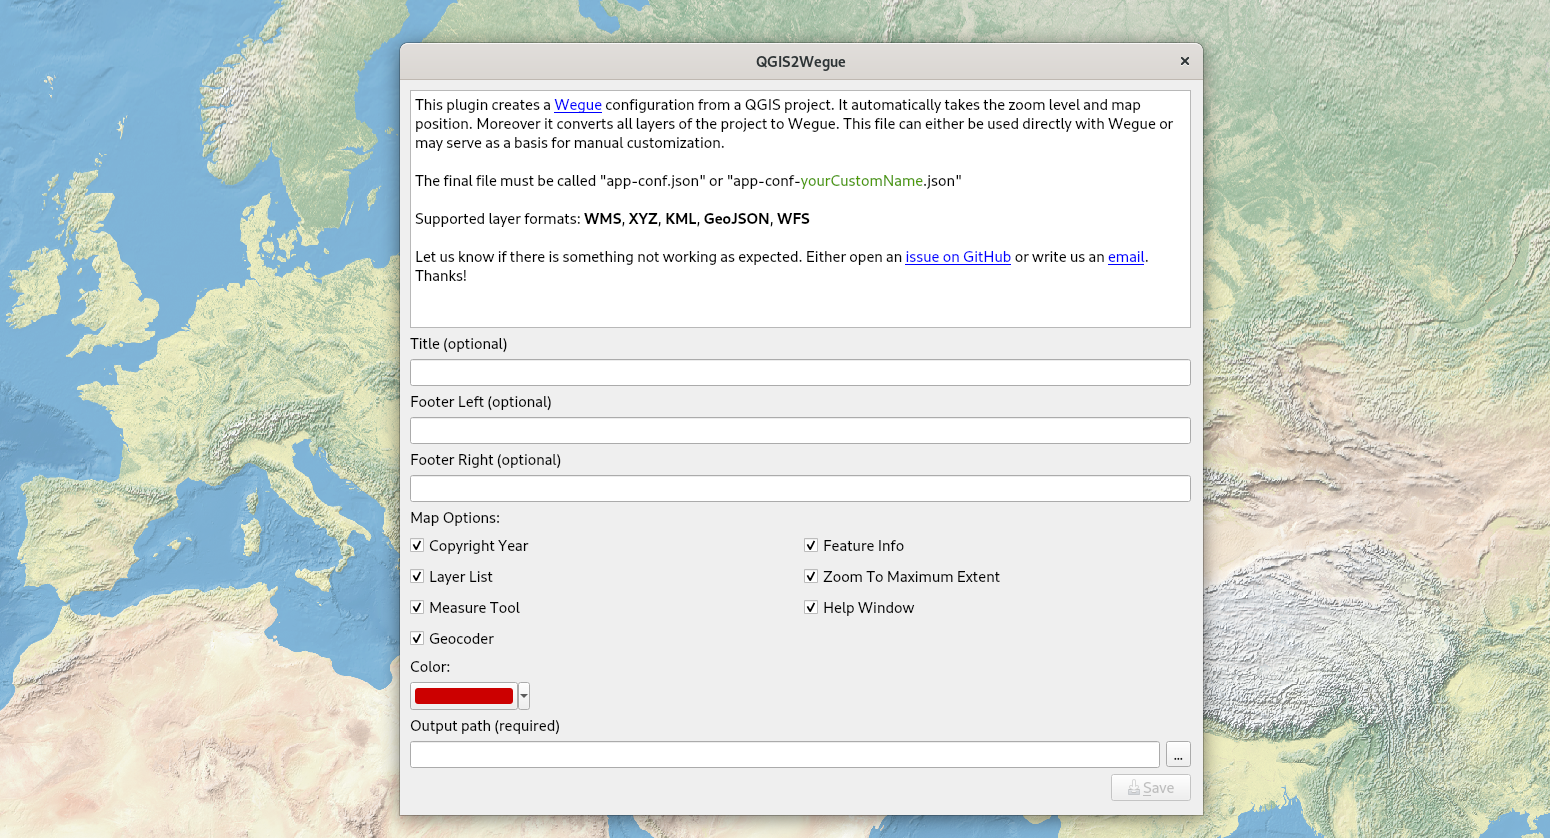
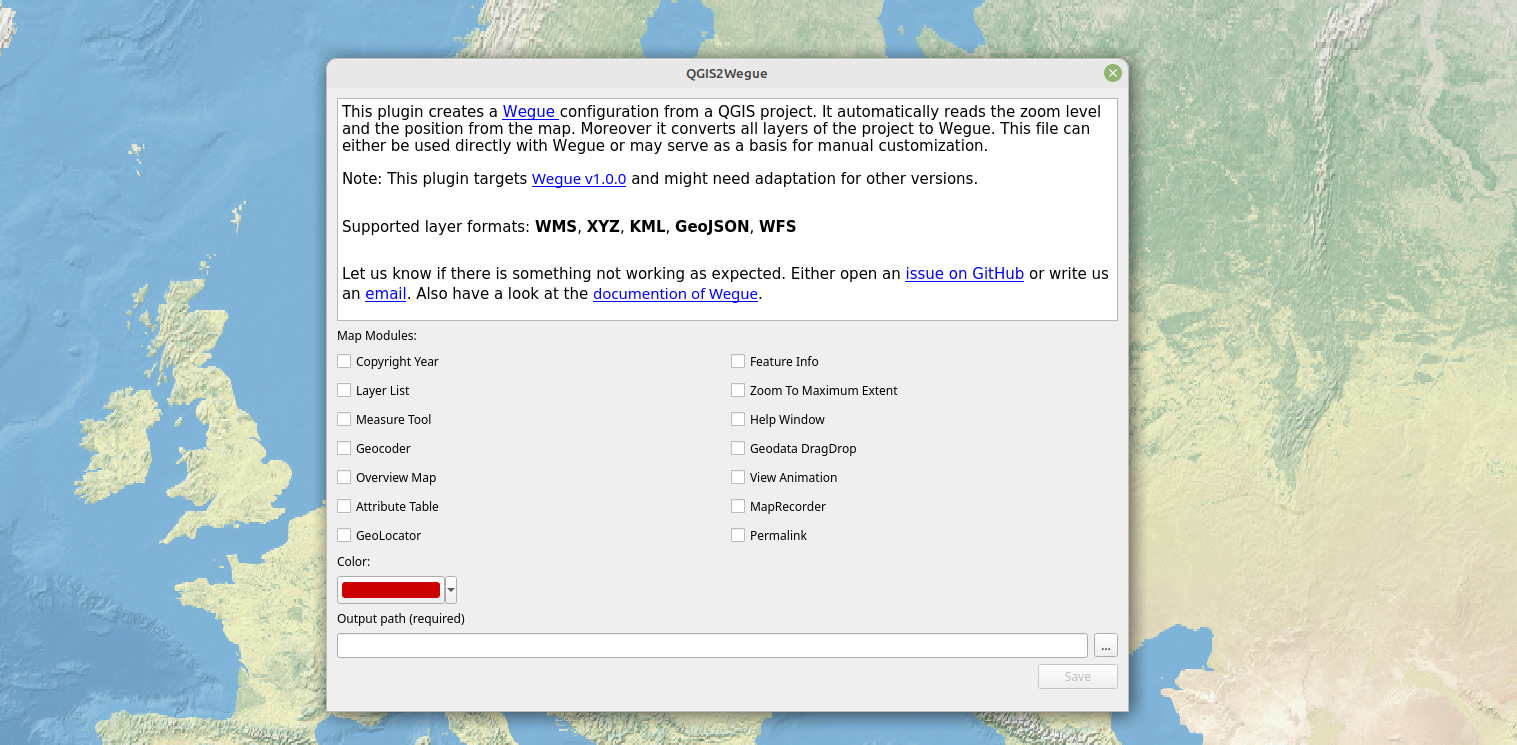
Update plugin to Wegue `v1.0.0` (#33)
- adapt the color value to the new position within the config file
- add more map modules: Attribute Table, Overview Map, Map Recorder
- **deprecate** options to add text, because these option have moved to the "locale" file 
- adapt UI and help text
- some typos
- minor Update of README

diff --git a/qgis2wegue.py b/qgis2wegue.py
@@ -14,7 +14,9 @@ from .wegueConf import WegueConfiguration
 
 from .wegue_util import (center2webmercator,
                          scale2zoom,
-                         extract_wegue_layer_config)
+                         extract_wegue_layer_config,
+                         rgb2hex
+                         )
 
 
 class qgis2wegue:
@@ -136,12 +138,8 @@ class qgis2wegue:
 
         dir_exists = os.path.exists(base_dir)
 
-        # wegue config files must match this pattern
-        file_is_valid = (
-            file == 'app-conf.json') | (file.startswith('app-conf-') & file.endswith('.json'))
-
         enabled = False
-        if (file != "") & dir_exists & file_is_valid:
+        if (file != "") & dir_exists & file.endswith('.json'):
             # output path valid
             enabled = True
 
@@ -149,7 +147,7 @@ class qgis2wegue:
 
     def store_wegue_conf_to_file(self):
         """
-        Collects all paramters from QGIS and the plugin form
+        Collects all parameters from QGIS and the plugin form
         and creates the Wegue configuration
         """
 
@@ -176,12 +174,6 @@ class qgis2wegue:
             if result_layer:
                 self.wegue_conf.mapLayers.append(result_layer)
 
-        # optional properties
-        self.wegue_conf.title = self.dlg.q2w_title_widget.text()
-        self.wegue_conf.footerTextLeft = self.dlg.q2w_footer_left_widget.text()
-        self.wegue_conf.footerTextRight = \
-            self.dlg.q2w_footer_right_widget.text()
-
         # add checkbox properties
         self.wegue_conf.showCopyrightYear = \
             self.dlg.q2w_copyright_year.isChecked()
@@ -203,21 +195,38 @@ class qgis2wegue:
 
         if self.dlg.q2w_geocoder.isChecked():
             self.wegue_conf.add_geocoder()
-        
+
         if self.dlg.q2w_geodata_drag_drop.isChecked():
             self.wegue_conf.add_map_geodata_drag_drop()
-        
+
         if self.dlg.q2w_permalink.isChecked():
             self.wegue_conf.add_permalink()
-        
+
         if self.dlg.q2w_geolocator.isChecked():
             self.wegue_conf.add_geolocator()
 
+        if self.dlg.q2w_overview_map.isChecked():
+            self.wegue_conf.add_overview_map()
+
+        if self.dlg.q2w_view_animation.isChecked():
+            self.wegue_conf.add_view_animation()
+
+        if self.dlg.q2w_map_recorder.isChecked():
+            self.wegue_conf.add_maprecorder()
+
+        if self.dlg.q2w_attribute_table.isChecked():
+            self.wegue_conf.add_attribute_table()
+
         # color
-        color_rgb = self.dlg.q2w_color_widget.color().getRgb()
-        # drop alpha value
-        color_rgb = color_rgb[0:3]
-        self.wegue_conf.baseColor = "rgb" + str(color_rgb)
+        qt_color = self.dlg.q2w_color_widget.color()
+        hex_color = rgb2hex(qt_color.red(), qt_color.green(), qt_color.blue())
+        self.wegue_conf.colorTheme = {
+            "themes": {
+                "light": {
+                    "primary": hex_color
+                }
+            }
+        }
 
         # path for config
         user_input = self.dlg.q2w_file_widget.filePath()

diff --git a/wegueConf.py b/wegueConf.py
@@ -5,12 +5,15 @@ class WegueConfiguration:
     """Contains parameters of a Wegue configuration"""
 
     def __init__(self):
-        self.title = "Vue.js / OpenLayers WebGIS"
-        self.baseColor = "green darken-3"
+        self.colorTheme = {
+            "themes": {
+                "light": {
+                    "primary": "#fdbf6f"
+                }
+            }
+        }
         self.logo = "https://dummyimage.com/100x100/aaa/fff&text=Wegue"
         self.logoSize = 100
-        self.footerTextLeft = "Powered by <a href='https://meggsimum.de/wegue/' target='_blank'>Wegue WebGIS</a>"
-        self.footerTextRight = "meggsimum"
         self.showCopyrightYear = True
         self.mapZoom = 2
         self.mapCenter = (0, 0)
@@ -33,26 +36,43 @@ class WegueConfiguration:
         }
 
     def add_permalink(self):
-        self.permalink =  {
+        self.permalink = {
             "location": "hash",
             "layers": True,
             "extent": False,
             "projection": "EPSG:4326",
             "paramPrefix": "",
             "history": True
-        }        
+        }
+
+    def add_overview_map(self):
+        self.overviewMap = {
+            "visible": False
+        }
+
+    def add_view_animation(self):
+        self.viewAnimation = {
+            "type": "fly",
+            "options": {
+                "duration": 3000,
+                "zoom": 15,
+                "maxZoom": 15
+            }
+        }
 
     def add_layer_list(self):
         self.modules["wgu-layerlist"] = {
             "target": "menu",
-            "win": True,
-            "draggable": False
+            "icon": "layers",
+            "win": "floating",
+            "draggable": False,
         }
 
     def add_measuretool(self):
         self.modules["wgu-measuretool"] = {
             "target": "menu",
-            "win": True,
+            "win": "floating",
+            "icon": "photo_size_select_small",
             "draggable": False,
             "strokeColor": "#c62828",
             "fillColor": "rgba(198,40,40,0.2)",
@@ -65,7 +85,8 @@ class WegueConfiguration:
     def add_infoclick(self):
         self.modules["wgu-infoclick"] = {
             "target": "menu",
-            "win": True,
+            "win": "floating",
+            "icon": "info",
             "draggable": False,
             "initPos": {
                 "left": 8,
@@ -108,3 +129,22 @@ class WegueConfiguration:
             "darkLayout": True
         }
 
+    def add_maprecorder(self):
+        self.modules["wgu-maprecorder"] = {
+            "target": "toolbar",
+            "win": "floating",
+            "icon": "mdi-video",
+            "draggable": False,
+            "initPos": {
+                "left": 8,
+                "top": 230
+            }
+        }
+
+    def add_attribute_table(self):
+        self.modules["wgu-attributetable"] = {
+            "target": "menu",
+            "win": "floating",
+            "icon": "table_chart",
+            "syncTableMapSelection": True
+        }

diff --git a/resources.py b/resources.py
@@ -2,7 +2,7 @@
 
 # Resource object code
 #
-# Created by: The Resource Compiler for PyQt5 (Qt v5.9.5)
+# Created by: The Resource Compiler for PyQt5 (Qt v5.12.8)
 #
 # WARNING! All changes made in this file will be lost!
 
@@ -342,8 +342,8 @@ qt_resource_struct_v2 = b"\
 \x00\x00\x01\x76\x87\x19\x7a\xdc\
 "
 
-qt_version = QtCore.qVersion().split('.')
-if qt_version < ['5', '8', '0']:
+qt_version = [int(v) for v in QtCore.qVersion().split('.')]
+if qt_version < [5, 8, 0]:
     rcc_version = 1
     qt_resource_struct = qt_resource_struct_v1
 else:

diff --git a/wegue_util.py b/wegue_util.py
@@ -9,6 +9,15 @@ from qgis.core import (QgsCoordinateTransform,
                        QgsCoordinateReferenceSystem)
 
 
+def rgb2hex(r, g, b):
+    """
+    Converts a RGB color to hex code
+
+    Taken from https://stackoverflow.com/a/43572620
+    """
+    return "#{:02x}{:02x}{:02x}".format(r, g, b)
+
+
 def center2webmercator(center_point, qgis_instance):
     """Converts a point geometry to EPSG:3857"""
 

diff --git a/README.md b/README.md
@@ -1,6 +1,6 @@
 ![logo](logo/logo.png)
 
-# QGIS2Wegue 
+# QGIS2Wegue
 
 A QGIS plugin for creating [Wegue](https://github.com/meggsimum/wegue) configurations based on a QGIS project. Supported formats are: `WMS`, `XYZ`, `KML`, `GeoJSON`, `WFS`
 
@@ -10,7 +10,7 @@ A QGIS plugin for creating [Wegue](https://github.com/meggsimum/wegue) configura
 
 - Add all your desired layers to QGIS
 - Open the plugin, chose a filepath and click `OK`
-- Now you have a configuration file that works with Wegue 
+- Now you have a configuration file that works with Wegue
 
 ## Installation
 
@@ -37,11 +37,20 @@ Update the plugin with `git pull https://github.com/meggsimum/qgis2wegue` and re
 
 ## Development Snippets
 
+Install `pyqt5-dev-tools`. On Debian/Ubuntu:
+
+```shell
+sudo apt-get install pyqt5-dev-tools
+```
+
 Check code quality and errors:
 
 ```shell
+# installation if needed
+pip install --user pylint pycodestyle
+
 pylint --reports=n --rcfile=pylintrc .
-pycodestyle --repeat --ignore=E203,E121,E122,E123,E124,E125,E126,E127,E128 --exclude=resources.py .
+pycodestyle --repeat --ignore=W504,E203,E121,E122,E123,E124,E125,E126,E127,E128 --exclude=resources.py .
 ```
 
 Compile resources e.g. when logo has changed:
@@ -58,7 +67,6 @@ TARGET_DIR=your/custom/path
 
 TMP_PLUGIN_DIR=${TARGET_DIR}/qgis2wegue
 
-rm -rf ${TMP_PLUGIN_DIR}
 mkdir ${TMP_PLUGIN_DIR}
 cp -r \
   *.py \
